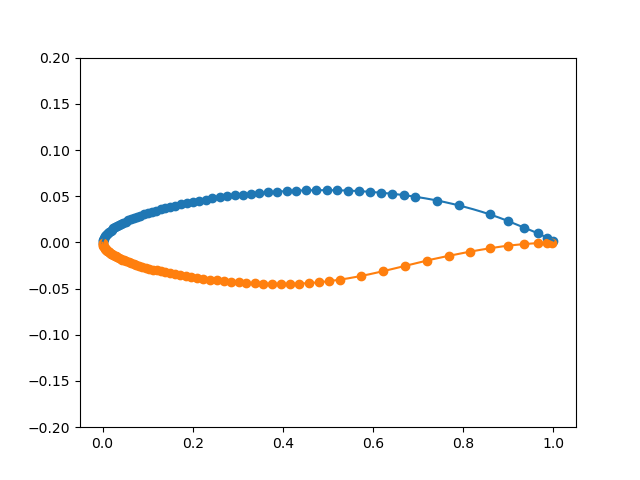
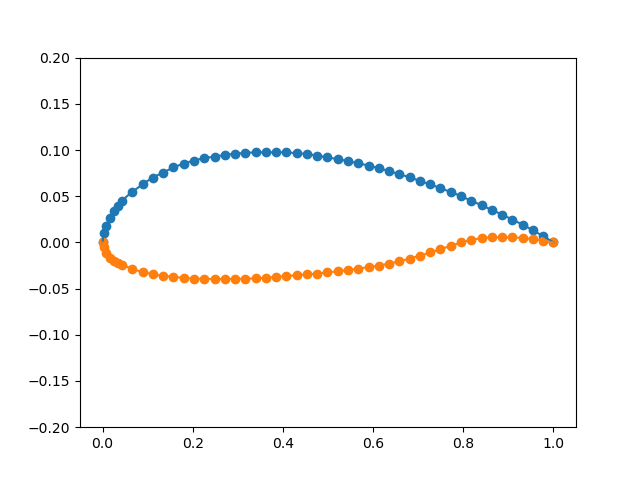
changed images in report

Changed region(s): [[0.1562, 0.2812, 0.875, 0.625]]

diff --git a/src/part_3.py b/src/part_3.py
@@ -26,7 +26,7 @@ if __name__ == "__main__":
     
     xint = np.linspace(ex[0], ex[n - 1], 1000)
     
-    fint_supp = p1.interp(ex, ey, res, n)
+    fint_upp = p1.interp(ex, ey, res, n)
     
     ########################################
     # for ix and iy
@@ -34,61 +34,61 @@ if __name__ == "__main__":
     
     res = p1.spline(ix, iy, n, yp1, ypn)
     
-    fint_inf = p1.interp(ix, iy, res, n)
+    fint_low = p1.interp(ix, iy, res, n)
     
     ########################################
     hmin = min(iy)
     hmax = max(ey)
     
-    x_high = np.linspace(ex[0], ex[int(dim[0]) - 1], 100)
-    y_high = np.zeros(100)
+    x_upp = np.linspace(ex[0], ex[int(dim[0]) - 1], 100)
+    y_upp = np.zeros(100)
     
     x_low = np.linspace(ix[0], ix[int(dim[1]) - 1], 100)
     y_low = np.zeros(100)
 
-    functions_high = []
+    functions_upp = []
     functions_low = []
     
     for i in range(20):
-        f_high = f_lambda(i / 20, hmax, fint_supp)
-        functions_high.append(f_high)
-        f_low = f_lambda(i / 20, hmin, fint_inf)
+        f_upp = f_lambda(i / 20, hmax, fint_upp)
+        functions_upp.append(f_upp)
+        f_low = f_lambda(i / 20, hmin, fint_low)
         functions_low.append(f_low)
         
         for j in range(100):
-            y_high[j] = f_high(x_high[j])            
+            y_upp[j] = f_upp(x_upp[j])            
             y_low[j] = f_low(x_low[j])
             
         if i == 0:
-            plt.plot(x_high, y_high)
+            plt.plot(x_upp, y_upp)
             plt.plot(x_low, y_low)
         else:
-            plt.plot(x_high, y_high, color = 'k')
+            plt.plot(x_upp, y_upp, color = 'k')
             plt.plot(x_low, y_low, color = 'k')
             
 
     plt.ylim(-0.15, 0.3)
     plt.show()
 
-    press_high = [pressure(f, xint[0], xint[-1]) for f in functions_high]
+    press_upp = [pressure(f, xint[0], xint[-1]) for f in functions_upp]
     press_low = [pressure(f, xint[0], xint[-1]) for f in functions_low]
 
     X = np.linspace(0, 1, 100)
     Y = np.linspace(-0.15, 0.3, 100)
-    Z = np.full((100, 100), min(min(press_high), min(press_low)))
+    Z = np.full((100, 100), min(min(press_upp), min(press_low)))
 
     # Remplissage du tableau 2D avec les coefficients
-    for i in range(len(functions_high)):
+    for i in range(len(functions_upp)):
         for x in X:
             for y in Y:
-                if (functions_high[i](x) < y):
-                    Z[int((y + 0.15) * (100 - 0) / (0.3 + 0.15)) - 1, int(x * 99)] = press_high[i]
+                if (functions_upp[i](x) < y):
+                    Z[int((y + 0.15) * 100 / (0.3 + 0.15)) - 1, int(x * 99)] = press_upp[i]
 
     for i in range(len(functions_low)):
         for x in X:
             for y in Y:
                 if (functions_low[i](x) > y):
-                    Z[int((y + 0.15) * (100 - 0) / (0.3 + 0.15)), int(x * 99)] = press_low[i]
+                    Z[int((y + 0.15) * 100 / (0.3 + 0.15)), int(x * 99)] = press_low[i]
 
     # Affichage de la carte des coefficients
     plt.imshow(Z, origin='lower', extent=(0, 1, -0.15, 0.3), aspect='auto', cmap='hot')

diff --git a/tex/part_3.tex b/tex/part_3.tex
@@ -7,7 +7,7 @@ The subject explains that the airflow is laminar. This means that it can be divi
     \label{eq:equation_part3.1}
     y = f_{\lambda}(x) = (1 - \lambda)f(x) + \lambda \times h_{max} \times 3 \quad \forall \lambda \in [0,1] 
 \end{equation}
-Using the extrados $x/y$ $(ex, ey)$, the intrados $x/y$ $(ix, iy)$, the function that interpolates the points of the upper part of the wing (fint-supp), and the function that interpolates the points of the lower part of the wing (fint-inf), we obtain this figure \ref{fig:laminar}, which confirms the laminar nature of the airflow:
+Using the extrados $x/y$ $(ex, ey)$, the intrados $x/y$ $(ix, iy)$, the function that interpolates the points of the upper part of the wing (fint\_upp), and the function that interpolates the points of the lower part of the wing (fint\_low), we obtain this figure \ref{fig:laminar}, which confirms the laminar nature of the airflow:
 \begin{figure}[H]
   \centering
   \includegraphics[width=0.5\textwidth]{img/laminar_flow.png}

diff --git a/src/part_1.py b/src/part_1.py
@@ -174,7 +174,7 @@ if __name__ == "__main__":
 
     ##################################################
     # tests for airfoil
-    (dim, ex, ey, ix, iy) = lf.load_foil("bacnlf.dat")
+    (dim, ex, ey, ix, iy) = lf.load_foil("du84132v.dat")
 
     plt.scatter(ex, ey)
     plt.scatter(ix, iy)
